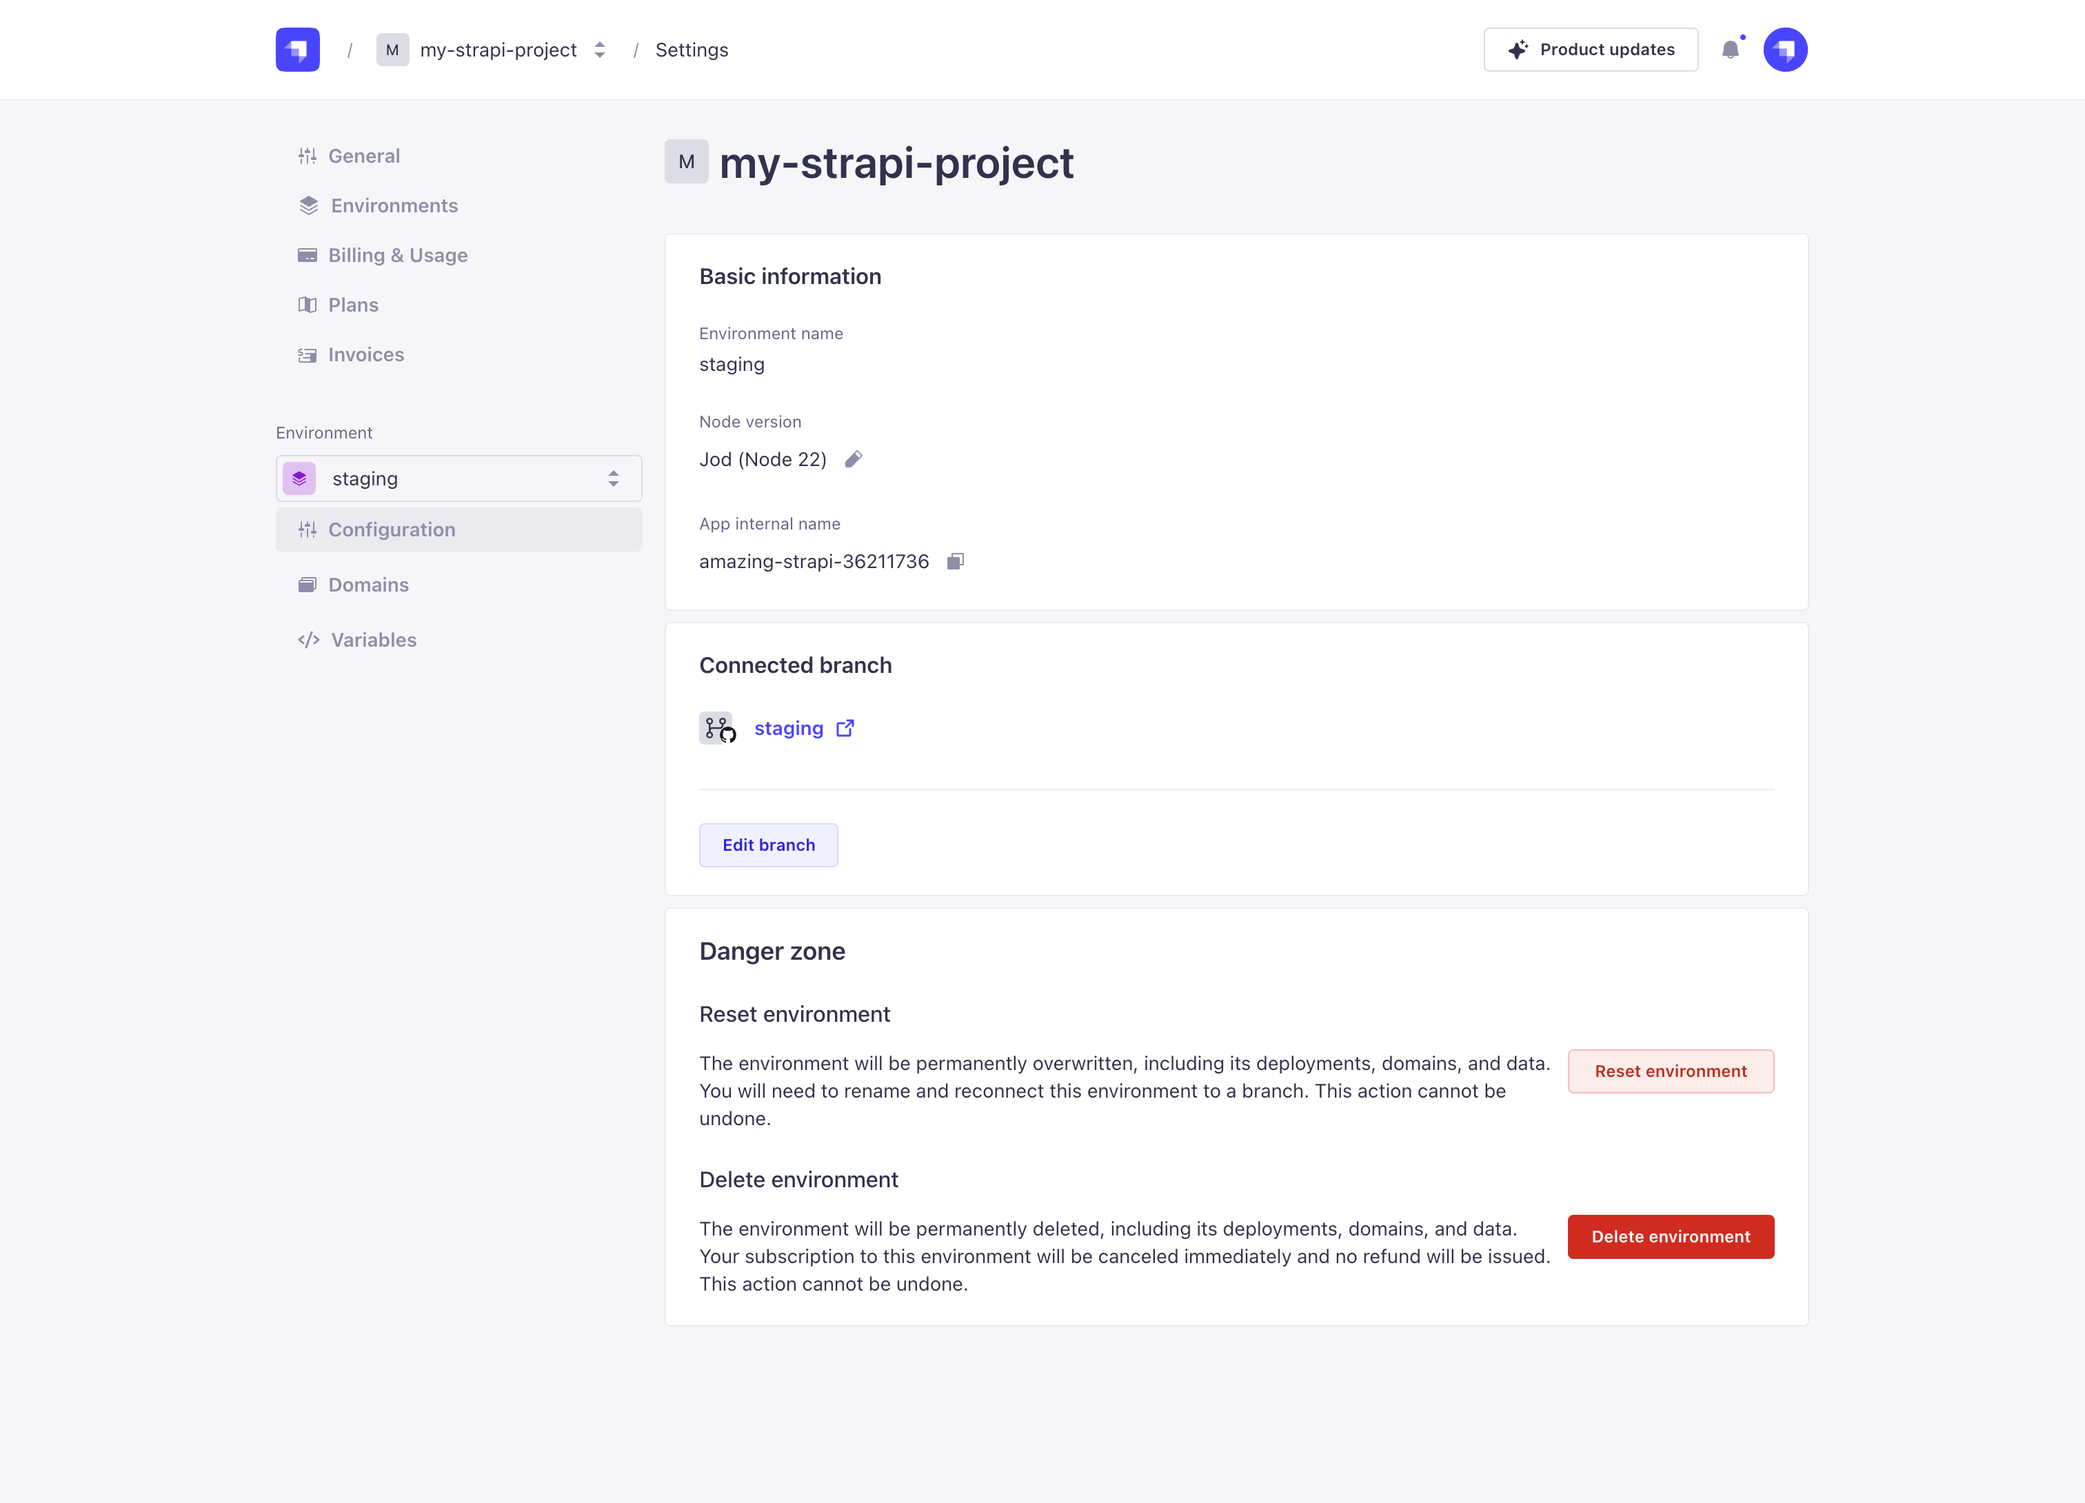
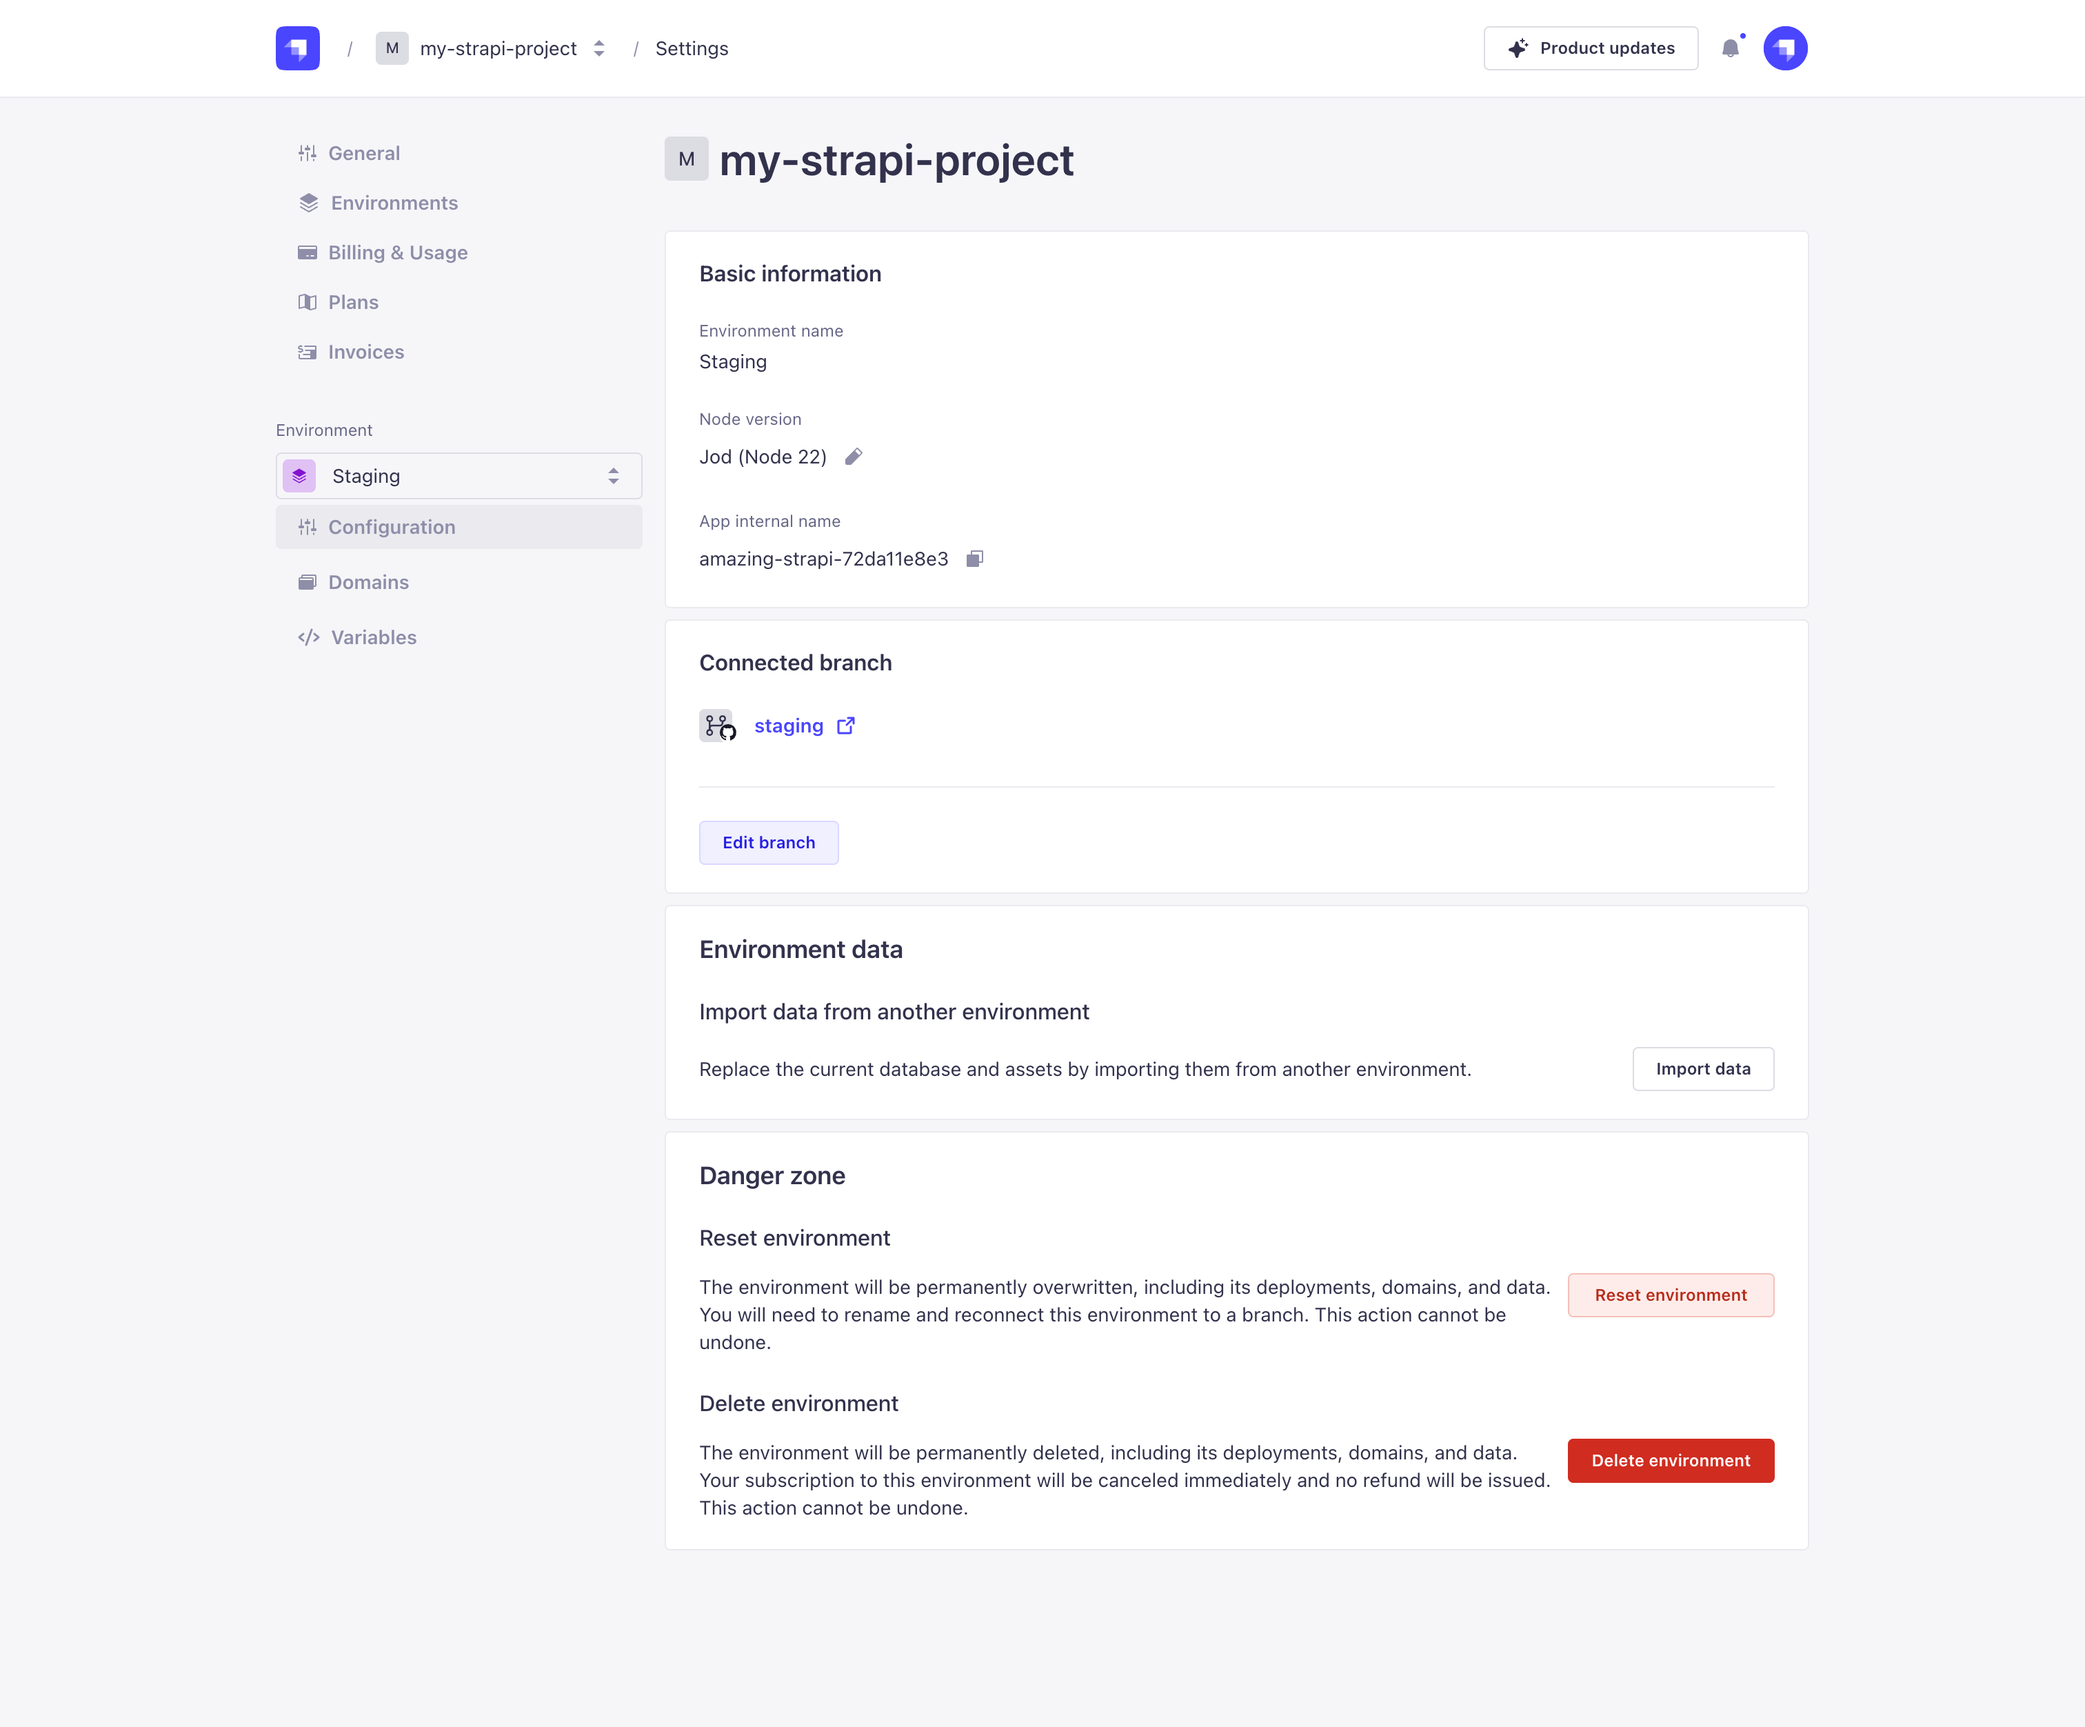
Data transfer between Cloud environments (#2891)
* data transfer content update

* Reformat section

---------

diff --git a/docusaurus/docs/cloud/projects/settings.md b/docusaurus/docs/cloud/projects/settings.md
@@ -309,6 +309,7 @@ The <Icon name="faders" /> *Configuration* tab for the environment-level setting
   - the Node version of the environment: to change the Node version of the project (see [Modifying Node version](#modifying-node-version)).
   - the app's internal name for the environment, which can be useful for debug & support purposes.
 - *Connected branch*: to change the branch of the GitHub repository used for your environment (see [Editing Git branch](#editing-git-branch)). Also allows to enable/disable the "deploy on push" option.
+- *Environment data*: to transfer data from another environment within the same project (see [Transferring data between environments](#transferring-data-between-environments)).
 - *Danger zone*: to reset or permanently delete your Strapi Cloud project's environment (see [Resetting & Deleting environment](#resetting--deleting-environment)).
 
 <ThemedImage
@@ -343,6 +344,33 @@ Ensure the Node version configured in your Strapi project matches the Node versi
     | Deploy the project on every commit pushed to this branch | Tick the box to automatically trigger a new deployment whenever a new commit is pushed to the selected branch. Untick it to disable the option. |
 
 3. Click on the **Save & deploy** button for the changes to take effect.
+
+#### Transferring data between environments {#transferring-data-between-environments}
+<CloudProBadge /> <CloudScaleBadge />
+
+The data transfer feature allows you to transfer the entire CMS content (database and assets) from one environment to another within the same Strapi Cloud project. This is useful for testing changes in a secondary environment with up-to-date production data, or for preparing and staging content in a secondary environment before taking it to production.
+
+Transferring data between environments currently comes with the following limitations:
+
+- You can only transfer toward a secondary environment (not the production environment).
+- Only project owners can initiate and manage ongoing transfers.
+- Transfers cannot be initiated on projects that are suspended.
+
+:::caution Data transfers are destructive
+Transferring data to an environment will permanently overwrite all existing data and assets in the target environment. The source environment's data remains unaffected, and its CMS can be accessed during the transfer. Environment settings (such as variables and domains) are not affected by the transfer.
+:::
+
+To transfer data to a secondary environment:
+
+1. Create and deploy both the source and target [environments](#environments).
+1. In the *Environment data* section of the <Icon name="faders" /> *Configuration* tab, click on the **Import data** button.
+2. In the modal that opens, select the source environment from the dropdown list. Only fully created and deployed environments are available as sources.
+3. Click on **Import data** to proceed, and follow the steps to confirm the transfer.
+4. Once initiated, you will be redirected to the environment's dashboard where you can monitor the transfer's progress. Once the transfer is completed, the dashboard will refresh, showing both the ongoing and historic deployments.
+
+:::note
+The CMS of the target environment will be inaccessible whilst the transfer is ongoing. You can cancel an ongoing transfer, but this will leave the target environment empty. If an error occurs during the transfer, you will have the option to retry or cancel.
+:::
 
 #### Resetting & Deleting environment
 
